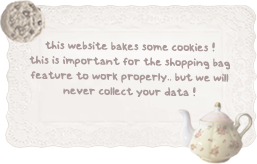
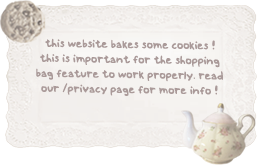
+

diff --git a/privacy.html b/privacy.html
@@ -1,0 +1,327 @@
+<html>
+
+<!--
+
+　　　          ___   .--.
+　　　    .--.-"   "-' .- |
+　　　   / .-,`          .'   
+　　　   \   `           \ 　　　　　　。・゜ 　♡   。　　・　゜ 　　　♡  
+　　　    '.            ・ \　　　　　　　　　　　　　　　　　　　　　　　　♡　　　　♡ ゜・。。♡  
+　　　      |  ・     ᴥ    。|　　　　・゜♡ ゜・。　　. * ・ ♡ °  . 。
+　　　      \ 。            /.____　　　　　　　　　　　　　　　　　　♡.  
+　　　     /`-.          ,'.'    `\　　　　　　　　　　　　　　　　　　。・゜　　　 ♡ ・ 。　　。・゜ ♡  
+　　　  __/   \`-.____.-' `\      /　　　　　♡　。・゜      
+　　　  | `---`'-'._/-`     \----'    _ 　　　　　　　　　　　♡　　　.　　　.♡ 
+　　　  |,-'`  /             |    _.-' `\　　　　. * ・        
+　　　 .'     /              |--'`     / |　　　　　　　　　　 ♡
+　　　/      /\              `         | |
+　　　|   .\/  \      .--. __          \ |　　　　　　　　　　　*.。middlepot.com 
+　　　 '-'      '._       /  `\         /　　　　　　　　　　　　　　　　　　　　　　　ଘ(*´ ˘ `*)ഒ 。.*
+　　　             `\    '     |------'`
+　　　               \  |      |
+　　　                \        /
+ 　　　                '._  _.'
+
+-->
+
+<title>shy bunny store ꒱</title>
+
+<head>
+<link rel="shortcut icon" href="./img/favicon.png">
+<meta http-equiv="Content-Type" content="text/html; charset=utf-8"/>
+<meta name="title" content="ꔫ">
+<meta name="description" content="shy bunny store ꒱">
+<meta name="theme-color" content="#f7e9ed">
+<meta property="og:url" content="https://shybunny.middlepot.com">
+<meta property="og:title" content="ꔫ">
+<meta property="og:description" content="shy bunny store ꒱">
+<meta property="og:image" content="https://middlepot.com/img/delicate.jpg">
+<meta property="og:image:type" content="image/jpeg">
+<meta property="og:type" content="website">
+<meta property="twitter:card" content="summary_large_image">
+<meta property="twitter:url" content="https://shybunny.middlepot.com">
+<meta property="twitter:title" content="ꔫ">
+<meta property="twitter:description" content="shy bunny store ꒱">
+<meta property="twitter:image" content="https://middlepot.com/img/delicate.jpg">
+
+
+<meta name="google-site-verification" content="XSwoCWBrpJECWQJaaNREq2GeweamSFmo78j2dJ_F3AA" />
+
+<style>
+body{ 
+  cursor: url(./img/cursor.png), progress;}
+a:hover {cursor: url(./img/cursorhover.png), progress;}
+ ::selection {text-shadow: 0 0 2px #cec1bb;color:#cec1bb}
+ ::-moz-selection {text-shadow: 0 0 2px #cec1bb;color:#cec1bb}
+</style>
+
+<style type="text/css">
+::-webkit-scrollbar {
+width: 5px;
+height: 4px;
+background: transparent;
+}
+::-webkit-scrollbar-thumb {
+background-color: #fcf7f7;
+-webkit-border-radius: 3ex;
+border-radius: 3ex;
+border: 1px dotted #baaeab;
+}
+</style>
+<style>
+html {
+    -webkit-text-size-adjust: 100%;
+    text-size-adjust: 100%;
+}
+
+@media screen and (max-width: 1000px) and (orientation: portrait){
+#everything { position: absolute; zoom: 255%;
+	left:-350px; top:70px;}
+}
+@media screen and (max-width: 1000px) and (orientation: landscape){
+#everything { position: absolute; zoom: 85%; left:-100px; top:0px;}
+}
+</style>
+</head>
+
+<body oncontextmenu="return false" ondragstart="return false" style="background-image:url(./img/bg.png); background-repeat: repeat; font-family: Calibri; font-size: 11px; letter-spacing:1px; color:#998585;">
+<div id="everything">
+
+<img style="position: absolute;
+	left: 370px;
+	top: 30px;
+overflow-y:hidden;
+overflow-x:hidden;
+z-index: 1;" src="./img/privacypolicy.png">
+
+<a href="/">
+<img style="position: absolute;
+	left: 455px;
+	top: 170px;
+overflow-y:hidden;
+overflow-x:hidden;
+z-index: 2;" src="./img/homeright.png"></a>
+
+<style>
+a { color: #b09097; }
+h1 { font-size:16px; }
+h2 { font-size:15px; }
+h3 { font-size:11px; }
+</style>
+
+<div style="position: absolute; left: 465px; top: 230px;
+overflow: auto; overflow: scroll; z-index: 5; width:330px; height:360px;
+background: transparent; resize: none; outline:none;
+border: 0px; color: #9e8e8e; font-family: Calibri;
+font-size: 11px; letter-spacing:1px; line-height:15px;">
+<div style="position: absolute; left:10px; right:10px;">
+<p>Last updated: August 27, 2021</p>
+<p>This Privacy Policy describes Our policies and procedures on the collection, use and disclosure of Your information when You use the Service and tells You about Your privacy rights and how the law protects You.</p>
+<p>We use Your Personal data to provide and improve the Service. By using the Service, You agree to the collection and use of information in accordance with this Privacy Policy.</p>
+<h1>Interpretation and Definitions</h1>
+<h2>Interpretation</h2>
+<p>The words of which the initial letter is capitalized have meanings defined under the following conditions. The following definitions shall have the same meaning regardless of whether they appear in singular or in plural.</p>
+<h2>Definitions</h2>
+<p>For the purposes of this Privacy Policy:</p>
+<ul>
+<li>
+<p><strong>Account</strong> means a unique account created for You to access our Service or parts of our Service.</p>
+</li>
+<li>
+<p><strong>Company</strong> (referred to as either &quot;the Company&quot;, &quot;We&quot;, &quot;Us&quot; or &quot;Our&quot; in this Agreement) refers to the shy bunny store.</p>
+</li>
+<li>
+<p><strong>Cookies</strong> are small files that are placed on Your computer, mobile device or any other device by a website, containing the details of Your browsing history on that website among its many uses.</p>
+</li>
+<li>
+<p><strong>Device</strong> means any device that can access the Service such as a computer, a cellphone or a digital tablet.</p>
+</li>
+<li>
+<p><strong>Personal Data</strong> is any information that relates to an identified or identifiable individual.</p>
+</li>
+<li>
+<p><strong>Service</strong> refers to the Website.</p>
+</li>
+<li>
+<p><strong>Service Provider</strong> means any natural or legal person who processes the data on behalf of the Company. It refers to third-party companies or individuals employed by the Company to facilitate the Service, to provide the Service on behalf of the Company, to perform services related to the Service or to assist the Company in analyzing how the Service is used.</p>
+</li>
+<li>
+<p><strong>Usage Data</strong> refers to data collected automatically, either generated by the use of the Service or from the Service infrastructure itself (for example, the duration of a page visit).</p>
+</li>
+<li>
+<p><strong>Website</strong> refers to the shy bunny store, accessible from <a href="https://shybunny.middlepot.com" rel="external nofollow noopener" target="_blank">https://shybunny.middlepot.com</a></p>
+</li>
+<li>
+<p><strong>You</strong> means the individual accessing or using the Service, or the company, or other legal entity on behalf of which such individual is accessing or using the Service, as applicable.</p>
+</li>
+</ul>
+<h1>Collecting and Using Your Personal Data</h1>
+<h2>Types of Data Collected</h2>
+<h3>Personal Data</h3>
+<p>While using Our Service, We may ask You to provide Us with certain personally identifiable information that can be used to contact or identify You. Personally identifiable information may include, but is not limited to:</p>
+<ul>
+<li>
+<p>Email address</p>
+</li>
+<li>
+<p>First name and last name, Address, State, Province, ZIP/Postal code, City</p>
+</li>
+<li>
+<p>Usage Data</p>
+</li>
+</ul>
+<h3>Email address</h3>
+<p>Your Email address will only be used for contacting about your orders, or Account settings. We will use Your Email address for providing essential information and sending transactional emails. We will never use Your Email for sending marketing or promotional emails.</p>
+<h3>First name and last name, Address, State, Province, ZIP/Postal code, City</h3>
+<p>Your Adress information are collected automatically through your Paypal checkout, and will only be used for shipping Your products from services you have made use of. When going through the Paypal checkout links You are redirected to Paypal, which is a third party's site. We strongly advise You to review the Privacy Policy of every site You visit.</p>
+<h3>Usage Data</h3>
+<p>Usage Data is collected automatically when using the Service.</p>
+<p>Usage Data may include information such as Your Device's Internet Protocol address (e.g. IP address), browser type, browser version, the pages of our Service that You visit, the time and date of Your visit, the time spent on those pages, unique device identifiers and other diagnostic data.</p>
+<p>When You access the Service by or through a mobile device, We may collect certain information automatically, including, but not limited to, the type of mobile device You use, Your mobile device unique ID, the IP address of Your mobile device, Your mobile operating system, the type of mobile Internet browser You use, unique device identifiers and other diagnostic data.</p>
+<p>We may also collect information that Your browser sends whenever You visit our Service or when You access the Service by or through a mobile device.</p>
+<h3>Tracking Technologies and Cookies</h3>
+<p>We use Cookies and similar tracking technologies to track the activity on Our Service and store certain information. Tracking technologies used are beacons, tags, and scripts to collect and track information and to improve and analyze Our Service. The technologies We use may include:</p>
+<ul>
+<li><strong>Cookies or Browser Cookies.</strong> A cookie is a small file placed on Your Device. You can instruct Your browser to refuse all Cookies or to indicate when a Cookie is being sent. However, if You do not accept Cookies, You may not be able to use some parts of our Service. Unless you have adjusted Your browser setting so that it will refuse Cookies, our Service may use Cookies.</li>
+<li><strong>Web Beacons.</strong> Certain sections of our Service and our emails may contain small electronic files known as web beacons (also referred to as clear gifs, pixel tags, and single-pixel gifs) that permit the Company, for example, to count users who have visited those pages or opened an email and for other related website statistics (for example, recording the popularity of a certain section and verifying system and server integrity).</li>
+</ul>
+<p>Cookies can be &quot;Persistent&quot; or &quot;Session&quot; Cookies. Persistent Cookies remain on Your personal computer or mobile device when You go offline, while Session Cookies are deleted as soon as You close Your web browser.</p>
+<p>We use both Session and Persistent Cookies for the purposes set out below:</p>
+<ul>
+<li>
+<p><strong>Necessary / Essential Cookies</strong></p>
+<p>Type: Session Cookies</p>
+<p>Administered by: Us</p>
+<p>Purpose: These Cookies are essential to enable You to use some of the Website's features. They help to authenticate users and prevent fraudulent use of user accounts. Without these Cookies, the services that You have asked for cannot be provided, and We only use these Cookies to provide You with those services.</p>
+</li>
+<li>
+<p><strong>Cookies Policy / Notice Acceptance Cookies</strong></p>
+<p>Type: Persistent Cookies</p>
+<p>Administered by: Us</p>
+<p>Purpose: These Cookies identify if users have accepted the use of cookies on the Website.</p>
+</li>
+<li>
+<p><strong>Functionality Cookies</strong></p>
+<p>Type: Persistent Cookies</p>
+<p>Administered by: Us</p>
+<p>Purpose: These Cookies allow us to remember choices You make when You use the Website, such as remembering your login details or language preference. The purpose of these Cookies is to provide You with a more personal experience and to avoid You having to re-enter your preferences every time You use the Website.</p>
+</li>
+</ul>
+<p>For more information about the cookies we use and your choices regarding cookies, please visit our Cookies Policy or the Cookies section of our Privacy Policy.</p>
+<h2>Use of Your Personal Data</h2>
+<p>The Company may use Personal Data for the following purposes:</p>
+<ul>
+<li>
+<p><strong>To provide and maintain our Service</strong>, including to monitor the usage of our Service.</p>
+</li>
+<li>
+<p><strong>To manage Your Account:</strong> to manage Your registration as a user of the Service. The Personal Data You provide can give You access to different functionalities of the Service that are available to You as a registered user.</p>
+</li>
+<li>
+<p><strong>For the performance of a contract:</strong> the development, compliance and undertaking of the purchase contract for the products, items or services You have purchased or of any other contract with Us through the Service.</p>
+</li>
+<li>
+<p><strong>To contact You:</strong> To contact You by email, SMS, or other equivalent forms of electronic communication, such as a mobile application's push notifications regarding updates or informative communications related to the functionalities, products or contracted services, including the security updates, when necessary or reasonable for their implementation.</p>
+</li>
+<li>
+<p><strong>To manage Your requests:</strong> To attend and manage Your requests to Us.</p>
+</li>
+<li>
+<p><strong>For business transfers:</strong> We may use Your information to evaluate or conduct a merger, divestiture, restructuring, reorganization, dissolution, or other sale or transfer of some or all of Our assets, whether as a going concern or as part of bankruptcy, liquidation, or similar proceeding, in which Personal Data held by Us about our Service users is among the assets transferred.</p>
+</li>
+<li>
+<p><strong>For other purposes</strong>: We may use Your information for other purposes, such as data analysis, identifying usage trends, determining the effectiveness of our promotional campaigns and to evaluate and improve our Service, and your experience.</p>
+</li>
+</ul>
+<p>The Company will <strong>not</strong> use Personal Data for the following purposes:</p>
+<ul>
+<li>
+<p><strong>Provide You</strong> with news, special offers and general information about other goods, services and events which we offer unless You have explicitly opted to receive such information.</p>
+</li>
+</ul>
+<p>We may share Your personal information in the following situations:</p>
+<ul>
+<li><strong>With Service Providers:</strong> We may share Your personal information with Service Providers to monitor and analyze the use of our Service,  to contact You.</li>
+<li><strong>For business transfers:</strong> We may share or transfer Your personal information in connection with, or during negotiations of, any merger, sale of Company assets, financing, or acquisition of all or a portion of Our business to another company.</li>
+<li><strong>With Affiliates:</strong> We may share Your information with Our affiliates, in which case we will require those affiliates to honor this Privacy Policy. Affiliates include Our parent company and any other subsidiaries, joint venture partners or other companies that We control or that are under common control with Us.</li>
+<li><strong>With business partners:</strong> We may share Your information with Our business partners to offer You certain products, services or promotions.</li>
+<li><strong>With other users:</strong> when You share personal information or otherwise interact in the public areas with other users, such information may be viewed by all users and may be publicly distributed outside.</li>
+<li><strong>With Your consent</strong>: We may disclose Your personal information for any other purpose with Your consent.</li>
+</ul>
+<h2>Retention of Your Personal Data</h2>
+<p>The Company will retain Your Personal Data only for as long as is necessary for the purposes set out in this Privacy Policy. We will retain and use Your Personal Data to the extent necessary to comply with our legal obligations (for example, if we are required to retain your data to comply with applicable laws), resolve disputes, and enforce our legal agreements and policies.</p>
+<p>The Company will also retain Usage Data for internal analysis purposes. Usage Data is generally retained for a shorter period of time, except when this data is used to strengthen the security or to improve the functionality of Our Service, or We are legally obligated to retain this data for longer time periods.</p>
+<h2>Transfer of Your Personal Data</h2>
+<p>Your information, including Personal Data, is processed at the Company's operating offices and in any other places where the parties involved in the processing are located. It means that this information may be transferred to — and maintained on — computers located outside of Your state, province, country or other governmental jurisdiction where the data protection laws may differ than those from Your jurisdiction.</p>
+<p>Your consent to this Privacy Policy followed by Your submission of such information represents Your agreement to that transfer.</p>
+<p>The Company will take all steps reasonably necessary to ensure that Your data is treated securely and in accordance with this Privacy Policy and no transfer of Your Personal Data will take place to an organization or a country unless there are adequate controls in place including the security of Your data and other personal information.</p>
+<h2>Disclosure of Your Personal Data</h2>
+<h3>Business Transactions</h3>
+<p>If the Company is involved in a merger, acquisition or asset sale, Your Personal Data may be transferred. We will provide notice before Your Personal Data is transferred and becomes subject to a different Privacy Policy.</p>
+<h3>Law enforcement</h3>
+<p>Under certain circumstances, the Company may be required to disclose Your Personal Data if required to do so by law or in response to valid requests by public authorities (e.g. a court or a government agency).</p>
+<h3>Other legal requirements</h3>
+<p>The Company may disclose Your Personal Data in the good faith belief that such action is necessary to:</p>
+<ul>
+<li>Comply with a legal obligation</li>
+<li>Protect and defend the rights or property of the Company</li>
+<li>Prevent or investigate possible wrongdoing in connection with the Service</li>
+<li>Protect the personal safety of Users of the Service or the public</li>
+<li>Protect against legal liability</li>
+</ul>
+<h2>Security of Your Personal Data</h2>
+<p>The security of Your Personal Data is important to Us, but remember that no method of transmission over the Internet, or method of electronic storage is 100% secure. While We strive to use commercially acceptable means to protect Your Personal Data, We cannot guarantee its absolute security.</p>
+<h1>Children's Privacy</h1>
+<p>Our Service does not address anyone under the age of 13. We do not knowingly collect personally identifiable information from anyone under the age of 13. If You are a parent or guardian and You are aware that Your child has provided Us with Personal Data, please contact Us. If We become aware that We have collected Personal Data from anyone under the age of 13 without verification of parental consent, We take steps to remove that information from Our servers.</p>
+<p>If We need to rely on consent as a legal basis for processing Your information and Your country requires consent from a parent, We may require Your parent's consent before We collect and use that information.</p>
+<h1>Links to Other Websites</h1>
+<p>Our Service may contain links to other websites that are not operated by Us. If You click on a third party link, You will be directed to that third party's site. We strongly advise You to review the Privacy Policy of every site You visit.</p>
+<p>We have no control over and assume no responsibility for the content, privacy policies or practices of any third party sites or services.</p>
+<h1>Changes to this Privacy Policy</h1>
+<p>We may update Our Privacy Policy from time to time. We will notify You of any changes by posting the new Privacy Policy on this page.</p>
+<p>You are advised to review this Privacy Policy periodically for any changes. Changes to this Privacy Policy are effective when they are posted on this page.</p>
+<h1>Contact Us</h1>
+<p>If you have any questions about this Privacy Policy, You can contact us:</p>
+<ul>
+<li>
+<p>By email: middlepot@gmail.com</p>
+</li>
+<li>
+<p>By visiting this page on our website: <a href="https://shybunny.middlepot.com/contact" rel="external nofollow noopener" target="_blank">https://shybunny.middlepot.com/contact</a></p>
+</li>
+</ul>
+<br><br>
+</div>
+</div>
+
+</div>
+</div>
+
+</div>
+</body>
+
+<!--
+
+　　　          ___   .--.
+　　　    .--.-"   "-' .- |
+　　　   / .-,`          .'   
+　　　   \   `           \ 　　　　　　。・゜ 　♡   。　　・　゜ 　　　♡  
+　　　    '.            ・ \　　　　　　　　　　　　　　　　　　　　　　　　♡　　　　♡ ゜・。。♡  
+　　　      |  ・     ᴥ    。|　　　　・゜♡ ゜・。　　. * ・ ♡ °  . 。
+　　　      \ 。            /.____　　　　　　　　　　　　　　　　　　♡.  
+　　　     /`-.          ,'.'    `\　　　　　　　　　　　　　　　　　　。・゜　　　 ♡ ・ 。　　。・゜ ♡  
+　　　  __/   \`-.____.-' `\      /　　　　　♡　。・゜      
+　　　  | `---`'-'._/-`     \----'    _ 　　　　　　　　　　　♡　　　.　　　.♡ 
+　　　  |,-'`  /             |    _.-' `\　　　　. * ・        
+　　　 .'     /              |--'`     / |　　　　　　　　　　 ♡
+　　　/      /\              `         | |
+　　　|   .\/  \      .--. __          \ |　　　　　　　　　　　*.。middlepot.com 
+　　　 '-'      '._       /  `\         /　　　　　　　　　　　　　　　　　　　　　　　ଘ(*´ ˘ `*)ഒ 。.*
+　　　             `\    '     |------'`
+　　　               \  |      |
+　　　                \        /
+ 　　　                '._  _.'
+
+-->
+
+</html>

diff --git a/index.html b/index.html
@@ -159,6 +159,41 @@ overflow-y:hidden;
 overflow-x:hidden;
 z-index: 2;" src="./img/manualsmall.png"></a>
 
+<script>
+var shybunny_cookies_name = 'shybunny_cookie_accept';
+function acceptedCookies(){
+  setCookie(shybunny_cookies_name, 'accepted');
+  document.getElementById('cookiewindow').style.display = 'none';
+  document.getElementById('cookieconfirm').style.display = 'none';
+}
+</script>
+<a id="cookieconfirm" onclick="acceptedCookies();" style="display:none;">
+<img style="position: absolute;
+	left: 695px;
+	top: 580px;
+overflow-y:hidden;
+overflow-x:hidden;
+z-index: 10;" src="./img/cookieconfirm.png"></a>
+
+<img id="cookiewindow" style="display:none;
+position: absolute;
+	left: 673px;
+	top: 480px;
+overflow-y:hidden;
+overflow-x:hidden;
+z-index: 8;" src="./img/cookiewindow.png">
+
+<script>
+function getCookieAcceptance(){
+  var accept = getCookie(shybunny_cookies_name);
+  if(accept !== 'accepted'){
+    document.getElementById('cookiewindow').style.display = 'block';
+    document.getElementById('cookieconfirm').style.display = 'block';
+  }
+}
+getCookieAcceptance();
+</script>
+
 <a href="/bag">
 <img style="position: absolute;
 	left: 780px;

diff --git a/bag.html b/bag.html
@@ -583,6 +583,14 @@ overflow-y:hidden;
 overflow-x:hidden;
 z-index: 1;" src="./img/shoppingbag.png">
 
+<a href="/privacy">
+<img style="position: absolute;
+	left: 350px;
+	top: 490px;
+overflow-y:hidden;
+overflow-x:hidden;
+z-index: 2;" src="./img/privacybutton.png"></a>
+
 <a href="/">
 <img style="position: absolute;
 	left: 365px;
